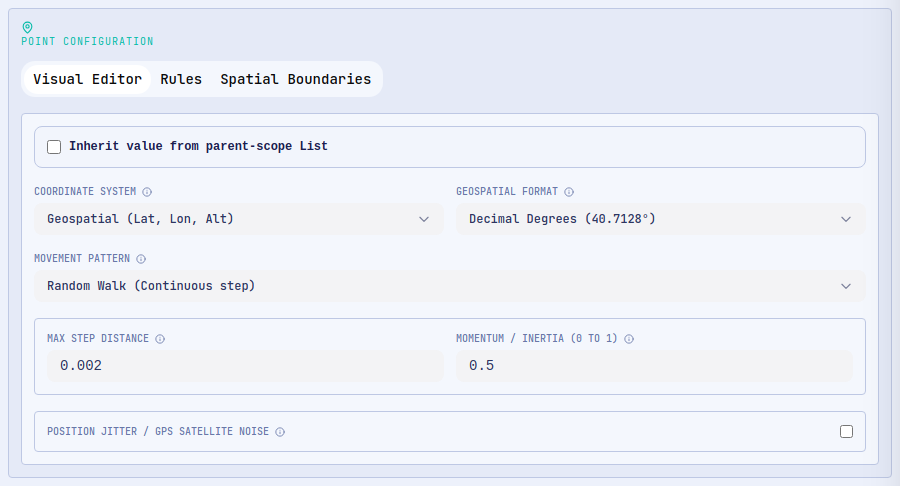
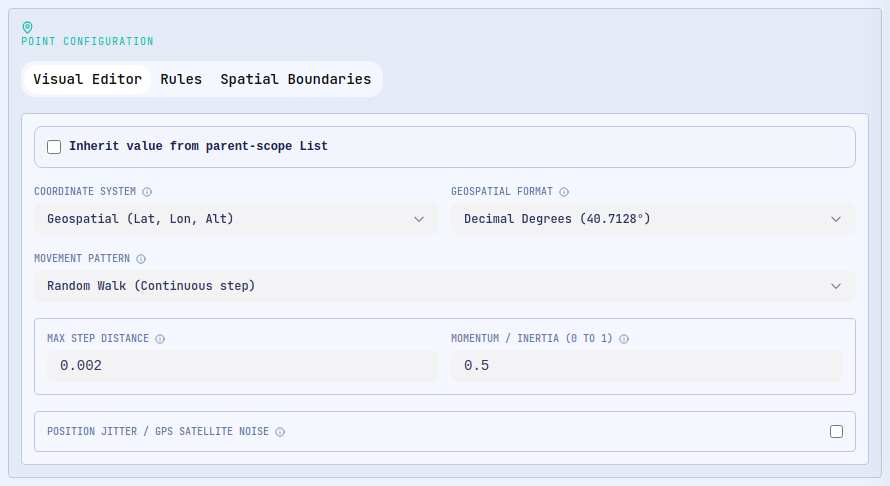
docs: document the point editors and clarify the variables index

diff --git a/USER_GUIDE.md b/USER_GUIDE.md
@@ -1,9 +1,15 @@
 # GenSynth User Guide
 
-GenSynth generates synthetic event streams: you describe devices (temperature sensors, machines,
-vehicles…), the values they report and how often they report them, and GenSynth sends the
-messages to a file or to a message broker such as RabbitMQ. It is designed to feed complex event
-processing (CEP) engines such as Esper with realistic, repeatable data.
+GenSynth is a desktop application that generates synthetic event streams. You describe the devices
+you want to simulate (sensors, machines, vehicles…), the values each one reports and how often it
+reports them, and GenSynth produces the messages continuously, following a single simulation clock.
+
+Messages are organised in **groups** and **flows**. Their content comes from configurable
+**variables** (numbers, texts, lists, booleans, dates and positions), which can follow random,
+scripted, periodic or correlated patterns. Each flow delivers its messages to a destination through
+a **connector**: GenSynth writes to files out of the box, and connector plugins add other
+technologies. Use it whenever you need realistic, repeatable data to develop, test or demonstrate a
+system that consumes events.
 
 This guide covers GenSynth **0.5.1**. For a quick overview, see the [README](README.md).
 
@@ -18,9 +24,25 @@ This guide covers GenSynth **0.5.1**. For a quick overview, see the [README](REA
 7. [Connectors](#connectors)
 8. [Simulation clock and settings](#simulation-clock-and-settings)
 9. [Variables](#variables)
-   - [Creating a variable](#creating-a-variable) · [Scopes](#scopes) · [The variable editor](#the-variable-editor)
-   - [Numeric](#numeric-variables) · [String](#string-variables) · [List](#list-variables) ·
-     [Boolean](#boolean-variables) · [Temporal](#temporal-variables) · [Point](#point-variables)
+   - [Creating a variable](#creating-a-variable) · [Scopes](#scopes) ·
+     [The variable editor](#the-variable-editor)
+     ([Inherit from a list](#inherit-value-from-parent-scope-list) ·
+     [Conditional rules](#conditional-rules))
+   - **[Numeric](#numeric-variables)**: [Random](#random) · [Constant](#constant) ·
+     [Sequential](#sequential) · [Distribution](#distribution) · [Formula](#formula) ·
+     [Sinusoidal Wave](#sinusoidal-wave) · [Linear Drift](#linear-drift) ·
+     [Noise and spikes](#noise-and-spikes)
+   - **[String](#string-variables)**: [modes](#string-modes) · [masks](#string-masks) ·
+     [data corruption](#string-data-corruption)
+   - **[List](#list-variables)**: [strategies](#list-selection-strategies) ·
+     [Markov chain](#list-markov-chain)
+   - **[Boolean](#boolean-variables)**: [patterns](#boolean-patterns)
+   - **[Temporal](#temporal-variables)**: [advance mode](#temporal-advance-mode) ·
+     [clock drift](#temporal-clock-drift) · [output format](#temporal-output-format)
+   - **[Point](#point-variables)**: [visual editor](#point-visual-editor) ·
+     [movement patterns](#point-movement-patterns) · [graph route](#point-graph-route) ·
+     [spatial boundaries](#point-spatial-boundaries) ·
+     [changing the coordinate system](#changing-the-coordinate-system)
 10. [Recipes for typical event patterns](#recipes-for-typical-event-patterns)
 11. [Saving and loading](#saving-and-loading)
 12. [Feedback](#feedback)
@@ -559,8 +581,25 @@ this device* or *Saved with the project*.
 
 ## Variables
 
-Variables generate the values of your messages. GenSynth has six types: **Numeric**, **String**,
-**List**, **Boolean**, **Temporal** and **Point**.
+Variables generate the values of your messages. GenSynth has six types:
+
+| Type | Use it for | Patterns / modes |
+|---|---|---|
+| [Numeric](#numeric-variables) | Measurements and counters: temperature, speed, load, battery level. | Random, Constant, Sequential, Distribution, Formula, Sinusoidal Wave, Linear Drift; optional noise and spikes. |
+| [String](#string-variables) | Identifiers, serial numbers, status texts, malformed data. | Random, Regex, Fixed, Template, Mask/IoT; optional data corruption. |
+| [List](#list-variables) | Categories, exact scripted sequences, state machines, arrays of values. | Weighted Random, Sequential, Shuffle, Markov Chain, Fixed Subset. |
+| [Boolean](#boolean-variables) | Flags and ON/OFF states: doors, motors, alarms. | Constant State, Probability Ratio, Flip Interval, Burst Mode, Markov Chain, Duty Cycle, Alternating Toggles. |
+| [Temporal](#temporal-variables) | Timestamps and simulated event time. | Wall Clock, Simulated Step, Backfill Historical, Fixed; optional clock drift. |
+| [Point](#point-variables) | Positions on a plane, in space or on a map. | Fixed Point, Random Point, Random Walk, Circular Orbit / Spiral, Waypoint Navigation, Graph Route. |
+
+**In this chapter:**
+
+- [Creating a variable](#creating-a-variable), [Scopes](#scopes) and
+  [The variable editor](#the-variable-editor) apply to every type, including
+  [inheriting a value from a list](#inherit-value-from-parent-scope-list) and
+  [conditional rules](#conditional-rules).
+- Then one section per type, linked from the table above, with its fields, patterns and typical
+  uses.
 
 ### Creating a variable
 
@@ -839,6 +878,8 @@ detect (or ignore).
 
 ![String](docs-assets/user-guide/21-string.png)
 
+#### String: modes
+
 Choose the **String Generation Mode** with the tabs:
 
 | Mode | Fields | What it produces |
@@ -848,6 +889,8 @@ Choose the **String Generation Mode** with the tabs:
 | **Fixed** | **Constant String Value** | Always the same text. |
 | **Template** | **Dynamic Template String** | A text built from other variables, e.g. `DEV-{{site}}-{{zone}}`. Use bare names (no scope, no sub-properties); type `{{` to autocomplete. |
 | **Mask/IoT** | **Preset Format Mask**, **Custom Format Pattern**, **Case Formatting** | Formatted identifiers, see below. |
+
+#### String: masks
 
 **Mask/IoT presets:** **MAC Address**, **IPv4 Address**, **IPv6 Address**, **UUID v4**,
 **Random Alphanumeric** and **Custom Format Mask**. The last two use the **Custom Format Pattern**:
@@ -862,6 +905,8 @@ Choose the **String Generation Mode** with the tabs:
 
 For example `SN-####-XXXX` → `SN-0417-9F3A`. **Case Formatting** (**Mixed Case**, **UPPERCASE**,
 **lowercase**) is applied to the whole result.
+
+#### String: data corruption
 
 **Simulate Data Corruption** (switch) damages some values on purpose:
 
@@ -890,7 +935,7 @@ A list picks values from items that you define.
 | **Weight** | Relative probability of the item (Weighted Random only). Weights do not need to add up to 100. | 1 (≥ 0) |
 | Move Up / Move Down / Delete | Reorder or remove items. The order matters for Sequential, Markov and Fixed Subset. | — |
 
-**Selection strategies**
+#### List: selection strategies
 
 | Strategy | What it does | When to use it |
 |---|---|---|
@@ -905,7 +950,7 @@ numeric items unquoted. Dynamic items generate a new value each time they are pi
 also inherit items from a GLOBAL or GROUP list ([see above](#inherit-value-from-parent-scope-list));
 inherited items appear first, marked *Inherited*.
 
-**Markov Chain**
+#### List: Markov chain
 
 ![List – Markov](docs-assets/user-guide/23-list-markov.png)
 
@@ -938,6 +983,8 @@ Example for a machine (rows = from, columns = to):
 | **Generation Pattern** | See the table below. | Constant State |
 | **Initial State** | Starting value (ON = `true`). The Constant pattern always sends it; the cyclic patterns start from it. | OFF (`false`) |
 
+#### Boolean: patterns
+
 | Pattern | Fields | Behaviour |
 |---|---|---|
 | **Constant State (Fixed ON/OFF)** | — | Always the **Initial State**. |
@@ -959,7 +1006,9 @@ variables through [conditional rules](#conditional-rules).
 
 ![Temporal](docs-assets/user-guide/25-temporal.png)
 
-**Advance Mode**
+#### Temporal: advance mode
+
+**Advance Mode** sets how the dates move forward:
 
 | Mode | Fields | What it produces |
 |---|---|---|
@@ -971,6 +1020,8 @@ variables through [conditional rules](#conditional-rules).
 Write ISO dates with a time zone, e.g. `2026-01-01T00:00:00Z` (dates without `Z` or an offset
 are ignored).
 
+#### Temporal: clock drift
+
 **Clock Drift / Skew (NTP Jitter)** (switch) imitates imperfect device clocks:
 
 | Field | What it does | Default |
@@ -979,7 +1030,9 @@ are ignored).
 | **Max Jitter Bound (ms)** / **Static Shift (ms)** | Size of the jitter or of the shift. | 0 |
 | **Drift Rate (ms / tick)** | Extra ms per value for Progressive Drift. Works with Simulated Step and Backfill Sequential Step. | 1.0 |
 
-**Output Category & Formatting**
+#### Temporal: output format
+
+**Output Category & Formatting** sets how the date is written:
 
 | Field | What it does | Default |
 |---|---|---|
@@ -1000,17 +1053,17 @@ are ignored).
 
 Points model positions: a robot on a factory floor, a vehicle on a map, a drone in the air.
 
-**Visual Editor**
+#### Point: visual editor
 
 | Field | What it does | Default |
 |---|---|---|
-| **Coordinate System** | **2D Cartesian (X, Y)**, **3D Cartesian (X, Y, Z)** or **Geospatial (Lat, Lon, Alt)** (WGS84 degrees and an altitude). Changing it clears the graph route. | 3D Cartesian |
+| **Coordinate System** | **2D Cartesian (X, Y)**, **3D Cartesian (X, Y, Z)** or **Geospatial (Lat, Lon, Alt)** (WGS84 degrees and an altitude). What a change keeps is explained in [Changing the coordinate system](#changing-the-coordinate-system). | 3D Cartesian |
 | **Geospatial Format** | **Decimal Degrees** or **Degrees, Minutes, Sec (DMS)** (text such as `40° 25' 0.48" N`). | Decimal |
 | **Boundary Behavior** | What happens when a moving point reaches the limits: **Clamp (Stop at boundary)**, **Bounce (Rebound velocity)** or **Wrap (Toroidal space)**. | Clamp |
 | **Movement Pattern** | See below. | Random Point |
 | **Position Jitter / GPS Satellite Noise** + **Random Jitter Noise Radius** | Adds Gaussian noise of that size (in coordinate units; degrees in Geospatial) to every coordinate, like a real GPS. | Off / 0 |
 
-**Movement patterns**
+#### Point: movement patterns
 
 | Pattern | Fields | Behaviour |
 |---|---|---|
@@ -1021,14 +1074,29 @@ Points model positions: a robot on a factory floor, a vehicle on a map, a drone 
 | **Waypoint Navigation** | **Interpolation Steps per Segment** | Not usable in 0.5.1: there is no way to enter waypoints (see [Known limitations](#known-limitations-and-issues)). Use Graph Route with a fixed sequence instead. |
 | **Graph Route (Connected Graph Path)** | See below (2D and Geospatial only) | Moves along the edges of a graph of nodes that you draw. |
 
-**Graph Route**
+#### Point: graph route
 
-![Point – map and graph route](docs-assets/user-guide/27-point-map.png)
+Draw the graph on the canvas or map of the route editor with its tools. A hint line at the
+bottom-left of the editor reminds you what the active tool does.
 
-Draw the graph on the canvas or map: click to place the first node, then **Add & Extend** places
-connected steps, **Connect Nodes** links two existing nodes, **Select Node** picks the origin of
-the next step; the trash button clears the graph. Selecting a node lets you rename it and edit
-its coordinates. Edges cannot cross forbidden zones.
+| Tool | What it does |
+|---|---|
+| **Add & Extend** | Click empty space to add a node linked to the selected one (the first click places the first node). Clicking an existing node does not add a new one. |
+| **Connect Nodes** | Click the origin, then the target, to link two existing nodes. `Esc` cancels a pending connection. |
+| **Select / Move** | Click a node to select it: it becomes the origin of the next Add & Extend step. |
+| **Delete** | Click a node or an edge to delete it. |
+| Trash button | Clears the whole graph. |
+
+![Route editor in 2D with the Select / Move tool](docs-assets/user-guide/38-route-editor.png)
+
+- Drag a node to move it, with **Add & Extend** or **Select / Move**, on the 2D canvas and on the
+  map. The move is applied when you release the mouse.
+- Selecting a node lets you rename it and edit its coordinates; the name and the coordinates are
+  applied when you leave the field or press `Enter`.
+- Edges cannot cross forbidden zones. Warnings appear over the top of the editor and can be closed
+  with their dismiss button.
+- **Fullscreen** opens the editor on the whole window and keeps the current map view; `Esc` exits
+  fullscreen (when no connection is pending). Double-clicking the map does not zoom it.
 
 | Field | What it does | Default |
 |---|---|---|
@@ -1042,19 +1110,78 @@ its coordinates. Edges cannot cross forbidden zones.
 The value then includes `nodeId`, `nodeName`, `targetNodeId`, `targetNodeName` and `isPaused`,
 handy for "vehicle arrived at depot" events.
 
-**Spatial Boundaries tab**
+#### Point: spatial boundaries
+
+![Spatial Boundaries tab with a 2D region and an obstacle](docs-assets/user-guide/37-point-boundaries-2d.png)
+
+The **Spatial Boundaries** tab sets the region where the point lives.
 
 | Element | What it does | Default |
 |---|---|---|
-| Visual editor | 2D grid, 3D view or world map. Drag to draw the area; right-click an edge to insert a vertex and a vertex to delete it. **Expand View / High-Precision Editor** opens a larger editor with presets (**Square**, **Triangle**, **Circle**, **New Region**), zoom and obstacle management. | — |
+| Visual editor | 2D canvas, 3D view or world map, depending on the Coordinate System (see below). **Expand View / High-Precision Editor** opens a larger editor with presets (**Square**, **Triangle**, **Circle**, **New Region**), zoom and obstacle management; `Esc` closes it. | — |
 | **Boundary Collision Action** | Same as Boundary Behavior. | Clamp |
-| **Outer Envelope Bounding Box (AABB Bounds)** | **Min/Max X, Y, Z** (Latitude, Longitude, Altitude in Geospatial): the box the point lives in. | 0–100 |
+| **Outer Envelope Bounding Box (AABB Bounds)** | **Min/Max X, Y, Z** (Latitude, Longitude, Altitude in Geospatial): the box the point lives in. | 0–100 on every axis |
 | **Exact Individual Polygon Vertices** | The vertices of a custom polygon (3 or more), when you drew one. The box then fits the polygon. | — |
 | Barriers & obstacles | **Obstacle Name**, **Type** (**Wall Line Segment** or **Forbidden Interior Polygon**) and **Add Barrier**; each barrier can be disabled or removed. Walls block Random Walk steps; forbidden polygons are never entered. | — |
 | Altitude (Geospatial) | **Independent Altitude Dynamics Pattern**: **Follow Primary XY Pattern**, **Fixed Altitude**, **Random Elevation (Uniform in Range)**, **Continuous Climb & Descent Walk** (**Max Vertical Step (m/tick)**), **Sinusoidal Hover Oscillation** (**Oscillation Speed (rad/tick)**); **Min/Max Altitude**, **Initial Altitude (Seed)**, **Altitude Measurement Unit** (m, ft, km, mi) and **Datum / Altitude Reference** (MSL, AGL, ELLIPSOID), which are written in the output. | Follow XY, m, MSL |
 
+How editing works in every boundary and route editor:
+
+- A drag is applied when you release the mouse, so each drag is a single change.
+- Numeric fields (bounds, coordinates, altitudes) are applied when you leave the field or press
+  `Enter`. Text that is not a number goes back to the previous value, and a minimum greater than
+  its maximum is swapped with it.
+
+**2D canvas:**
+
+- The view fits the region automatically; there is no fixed grid, and values are not limited to
+  ±100. The mouse wheel zooms around the cursor, and a drag continues if the cursor leaves the
+  canvas.
+- In **Move Boundaries** mode the region vertices take priority; whole obstacles can only be
+  dragged in **Move Obstacles** mode.
+- Right-click a vertex or an edge for its menu: insert a vertex on an edge (of the region or of
+  an obstacle) or delete a vertex (a region keeps at least 3).
+- The presets (**Square**, **Triangle**, **Circle**) fill the current bounding box, so the region
+  does not shrink. New obstacles appear at the centre of the region.
+
+**3D view:**
+
+- The height handle follows the cursor, and a negative height does not move the base.
+- The shape is centred on the X/Y bounds. For a sphere, the Z range is its diameter: from the
+  elevation to the elevation + 2 × radius.
+
+![Geofence editor on the map (Expand View)](docs-assets/user-guide/27-point-map.png)
+
+**World map (Geospatial):**
+
+- The polygon follows a vertex while you drag it. Latitude is limited to ±90° and longitude to
+  ±180°. Drag empty space to pan the map.
+- Right-click on the map to add a vertex on the nearest edge; right-click on a vertex to delete it
+  (a region keeps at least 3).
+- **New Box Region** keeps the current region until you finish drawing the new box (releasing the
+  mouse outside the map also finishes it). The presets and a new box zoom the map to the region.
+- The marker icons work offline. The altitude fields are applied when you leave them or press
+  `Enter`.
+
 > **Tip:** coordinates are sent with full precision (many decimals). Adjust the bounding box to
-> your scenario; by default every axis goes from 0 to 100.
+> your scenario: new point variables start with every axis from 0 to 100, and a point without
+> bounds also generates in that region.
+
+#### Changing the coordinate system
+
+Changing the **Coordinate System** keeps as much of the configuration as the units allow:
+
+- **2D ↔ 3D Cartesian** share units, so the region is kept: bounds, polygon and obstacles. Graph
+  Route is not available in 3D: going to 3D with Graph Route switches the pattern to **Random
+  Point** and drops the route, after asking you first.
+- **Cartesian ↔ Geospatial** use different units (coordinate units against degrees). GenSynth
+  first asks for confirmation, listing what will be lost, and then:
+  - resets the bounds to the defaults of the new system: 0 to 100 on every axis in Cartesian, or
+    a city-sized area around Madrid in Geospatial;
+  - resets the region polygon, the obstacles, the route graph and the fixed point (which moves to
+    the centre of the new region);
+  - adapts **Max Step Distance**, **Orbit Radius** and the jitter radius to the new units:
+    0.0005°, 0.01° and 0 in Geospatial, 10, 10 and 0 in Cartesian.
 
 ---
 
